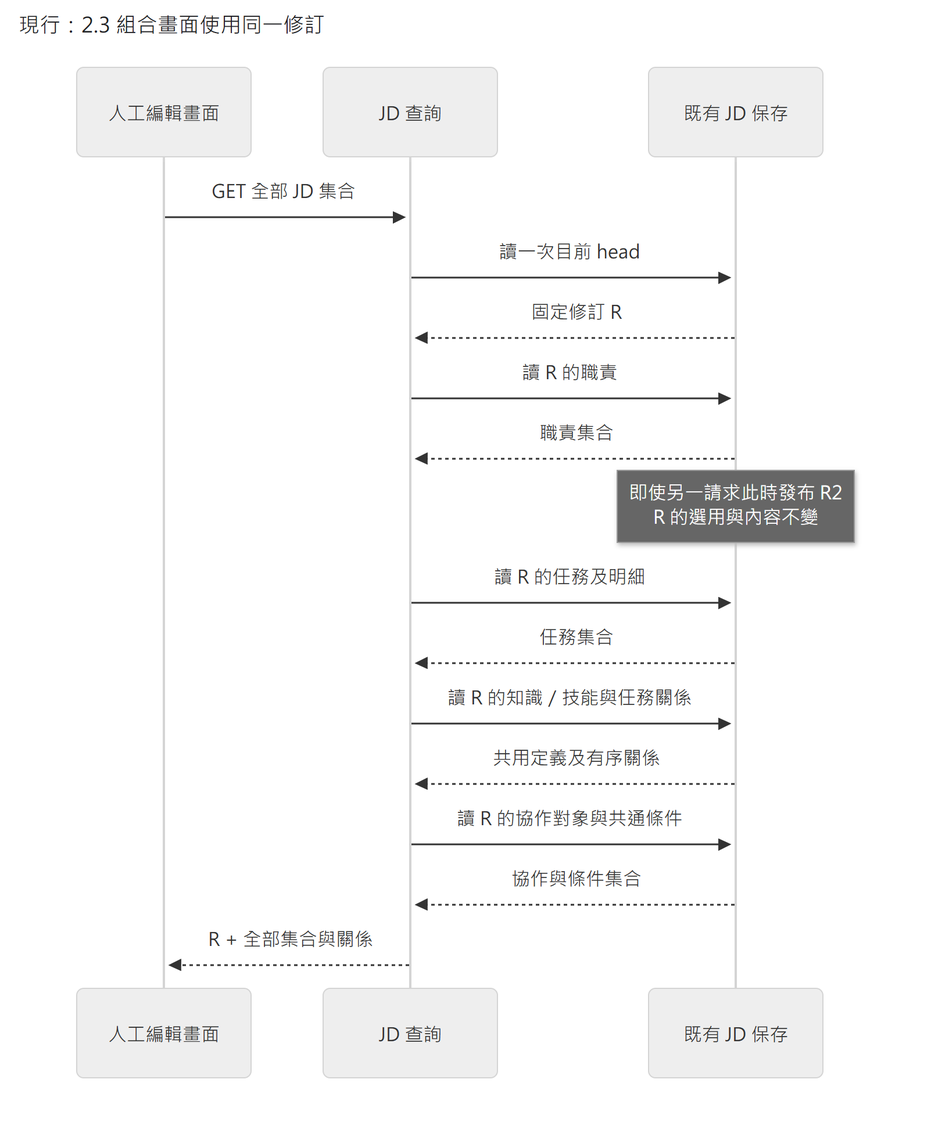
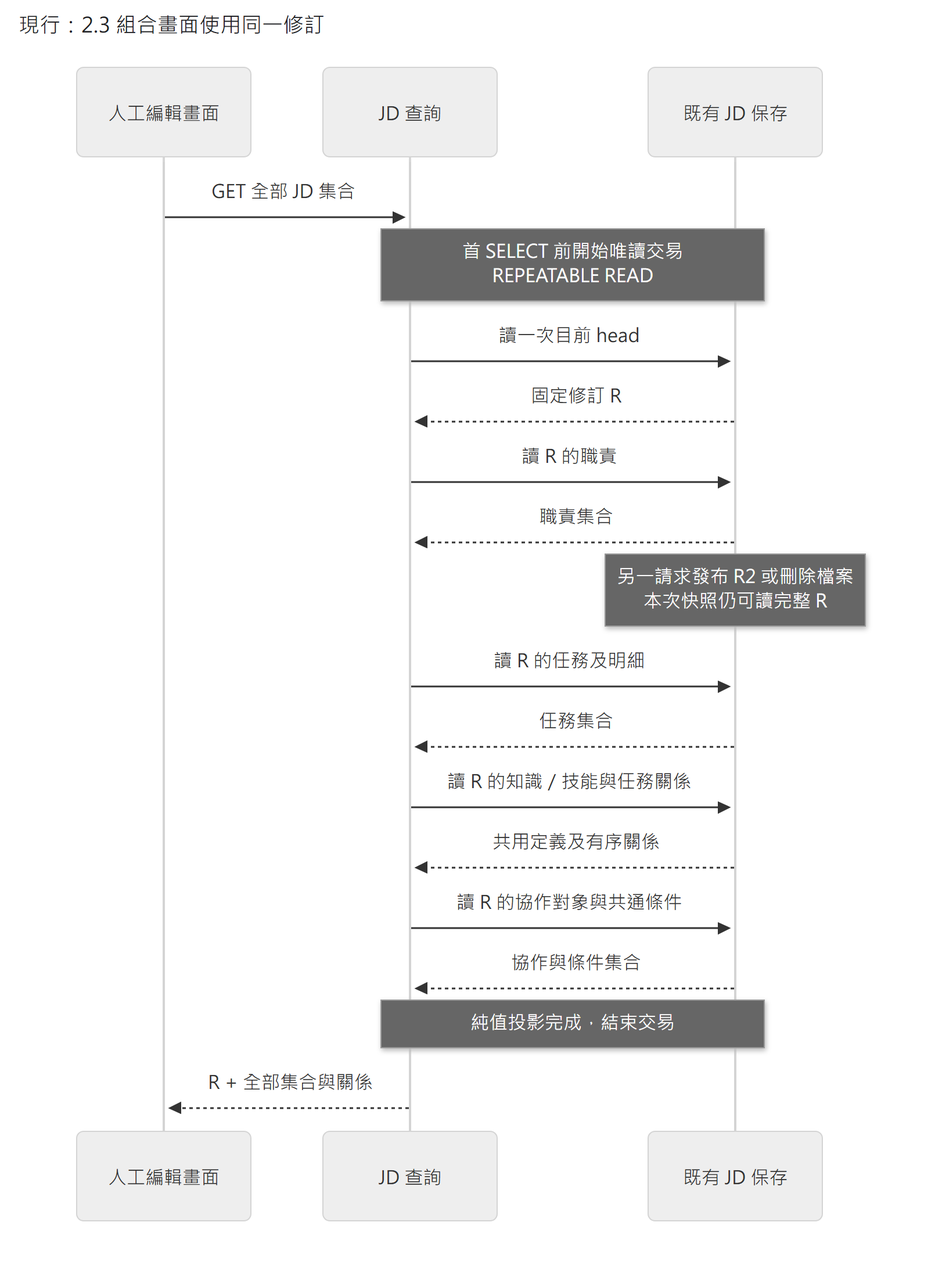
docs(engineering): record reviewed architecture and repair evidence
Record accepted ownership and contract decisions, official research, repair plans, independent reviews, validation limits, and the separately authorized local commits. Preserve unrelated project-report work in the working tree.

Validation: documentation checker 9 tests, 251 files, 4479 local references, zero issues. All 31 archived evidence hashes match; original bytes and the documented archived-probe EOF whitespace exception are preserved.

diff --git a/docs/implementation/web-workspace.md b/docs/implementation/web-workspace.md
@@ -17,9 +17,13 @@
 - 明確拒絕不自動改基底重送；保留畫面草稿供辨認，要求讀目前 JD 再決定。原命令成功確認後關編輯器，invalidate 並 GET 目前正式稿；舊操作回傳不直接寫入最新 cache。
 - 讀取失敗不當空白 JD；取消未送出的編輯只是放棄局部草稿，關閉結果未確認的編輯器也不是撤銷後端效果。未知欄位顯示「尚未提供」，不表示已確認沒有。人工寫入本身不等於員工事實或依據核對完成。
 
-profile 與 `WorkCommand` 共用 [usePendingCommand](../../apps/web/src/features/jd-editor/usePendingCommand.ts)處理重播、blocked、儲存失敗與還原；兩者各保留一筆待確認命令及自己的儲存鍵，互不覆蓋。共用 hook 僅管理 transport command。
+profile、`WorkCommand`、建立及改名共用 [pending-command store](../../apps/web/src/shared/commands/pending-command.ts)與 [useStoredCommand](../../apps/web/src/shared/commands/use-stored-command.ts)，集中保存、條件式 ACK、單次送出與已知／未知結果分類。各命令保留原儲存鍵及 schema；profile 與 work 仍各有自己的待確認 slot，互不覆蓋。
 
-[useProfileCommand](../../apps/web/src/features/jd-editor/useProfileCommand.ts)與 [useWorkCommand](../../apps/web/src/features/jd-editor/useWorkCommand.ts)是薄 adapter，各以一個 port 提供儲存鍵、型別檢查、POST、重讀及兩句提示，差異不另長成兩套恢復流程。
+[jd-commands](../../apps/web/src/features/jd-editor/jd-commands.ts)提供 JD 的 validator、完整命令比對、POST、正式拒絕分類及畫面結果投影。共用 hook 不持有草稿或 JD 版本規則；原命令已被替換、ACK 清理不可用或刷新失敗時，保留已知後端結果並顯示相應提示，不再送新命令。持久 ACK 與刷新在卸載後仍完成，只有仍掛載且結果可供目前畫面採用時才執行完成回呼。
+
+刷新由 [workspace-refresh](../../apps/web/src/app/workspace-refresh.ts)組裝：人工 JD 修改讀回 profile、work 及來源；訪談完成另讀回正式訪談；撤回另讀回原 Turn。各 feature 提供自己的 query options／範圍，JD 編輯器與訪談完成元件接收具名刷新 callback，不知道其他 feature 的 query key。來源使用自己的 `jd-sources` key，不依附 profile prefix。[refreshQueries](../../apps/web/src/shared/api/refresh-queries.ts)集中先 cancel、再 invalidate 並傳遞讀取錯誤，避免首次尚無 data 的慢 GET 被沿用為保存後結果；建立、改名、刪除清單、串流重連與終態 Plan 也沿同一機制。Plan 仍依原 execution 合併同時的終態讀取，並明確等待新資料，沒有另造 cache。
+
+JD 的正式拒絕只採已核對原命令後的 `409` 公開碼，以及相應集合的目標不存在／知識技能仍被引用錯誤。前置 schema／`invalid_*_change` 驗證、一般 `404`／`422`、未知碼或非 JSON 都不能否定先前可能已提交的操作，仍保留原命令。回傳成功與畫面刷新成功分開：來源或 JD GET 失敗不能讓已成功 POST 變成未知，也不能自動再送一次。
 
 採用 [React 的 state／key 生命週期](https://react.dev/learn/preserving-and-resetting-state)及 [TanStack Query 的 mutation invalidation](https://tanstack.com/query/latest/docs/framework/react/guides/invalidations-from-mutations)。以上原命令／基底保護是本案契約，不是 React／cache 自動提供交易原子性。沿用既有 HTTP 驗證，不新增全域表單 store 或雙寫保存服務。實測見 [T03 evidence §4](../history.md#source-75f1da860cdd0bef826e)；職責／任務見 [§2](#2-職責與任務的人工編輯)、知識／技能見 [§3](#3-共用知識技能及任務關係的人工編輯)、協作／條件見 [§4](#4-協作對象與共通條件的人工編輯)、候選與來源見 [§5](#5-工作畫面組裝) 及 [介面 §3](interface-and-delivery.md#3-顯示與來源)。
 
@@ -27,7 +31,7 @@ profile 與 `WorkCommand` 共用 [usePendingCommand](../../apps/web/src/features
 
 [JdWorkEditor](../../apps/web/src/features/jd-editor/JdWorkEditor.tsx)組裝職責、任務及未歸屬區。[WorkDialog](../../apps/web/src/features/jd-editor/WorkDialog.tsx)負責新增任務、知識／技能、協作對象與條件的表單（[TaskFields](../../apps/web/src/features/jd-editor/TaskFields.tsx)等），以及刪除確認；新增職責使用清單末端的 [AddArea](../../apps/web/src/features/jd-editor/AddArea.tsx)就地列。
 
-既有項目沒有整項編輯表單：文字[逐欄修改](#6-逐欄就地編輯)，搬移用「移到…」選單，成果／要求用「+」新增、× 移除。[useWorkCommand](../../apps/web/src/features/jd-editor/useWorkCommand.ts)管理本檔案、本分頁的一筆待確認集合命令，恢復規則共用 [§1](#1-基本資料編輯的讀取基底與恢復)。接線沿既有 MUI、Query 與 HTTP guard，不增設 form store 或拖曳框架。
+既有項目沒有整項編輯表單：文字[逐欄修改](#6-逐欄就地編輯)，搬移用「移到…」選單，成果／要求用「+」新增、× 移除。[workCommand](../../apps/web/src/features/jd-editor/jd-commands.ts)管理本檔案、本分頁的一筆待確認集合命令，恢復規則共用 [§1](#1-基本資料編輯的讀取基底與恢復)。接線沿既有 MUI、Query 與 HTTP guard，不增設 form store 或拖曳框架。
 
 - 畫面使用[同版組合讀取](jd-storage.md#23-組合畫面使用同一修訂)，開表單或就地編輯器時固定當時內容／基底。profile 與集合修改後互相 invalidate，因為兩者共用 JD 修訂；正在重讀時不讓新表單取已失效 cache。已開啟草稿仍不被背景更新覆蓋。
 - 職責／任務名稱和內容可局部清空，但至少保留一項有意義內容。成果／要求是獨立的明細，各自一筆命令：新增（清單標籤旁的「+」，在清單末端開空的就地編輯器）、改字（就地，保留身分）、移除（每項的 ×，先確認）。搬到別的職責是任務工具列 ⇄「移到其他職責」選單的單筆 `move_task`：選單列出所有職責與「未歸屬任務」（Primer ActionMenu 單選的做法，Things 的 Move、Jira 的 Move 同類），目前所在處打勾，選了就送、放在目的職責末尾，不附帶文字調整；選目前所在處只關選單。未歸屬明確列為「未歸屬任務」，不用空白選項冒充（`area_id` 是 null）。
@@ -40,7 +44,7 @@ profile 與 `WorkCommand` 共用 [usePendingCommand](../../apps/web/src/features
 
 ## 3. 共用知識／技能及任務關係的人工編輯
 
-[CapabilitiesSection](../../apps/web/src/features/jd-editor/CapabilitiesSection.tsx)呈現兩類共用定義、概覽排序及反向用途；[CapabilityFields](../../apps/web/src/features/jd-editor/CapabilityFields.tsx)只管新增表單的局部草稿；[TaskCapabilities](../../apps/web/src/features/jd-editor/TaskCapabilities.tsx)在每項任務管理連結、解除及關係排序。沿同一 `JdWorkEditor`、`WorkDialog` 及 `useWorkCommand`，不增加第二套命令暫存、對照表或保存服務。
+[CapabilitiesSection](../../apps/web/src/features/jd-editor/CapabilitiesSection.tsx)呈現兩類共用定義、概覽排序及反向用途；[CapabilityFields](../../apps/web/src/features/jd-editor/CapabilityFields.tsx)只管新增表單的局部草稿；[TaskCapabilities](../../apps/web/src/features/jd-editor/TaskCapabilities.tsx)在每項任務管理連結、解除及關係排序。沿同一 `JdWorkEditor`、`WorkDialog` 及 `workCommand`，不增加第二套命令暫存、對照表或保存服務。
 
 - 所有定義與關係來自同版 `/jd/work`。畫面可在任務顯示共用說明並連回定義；反向用途連回所屬任務。這是呈現，不把正文或反向列表另存一份。
 - 新增定義只填名稱、說明，至少一者有意義；修改在原處逐欄進行（[§6](#6-逐欄就地編輯)），只送變動欄位，空字串轉明確 null，沒改不送。知識／技能類別在建立時確定，不提供會改變所有用途含意的跨類切換。區塊說明列寫明「修改定義，所有使用它的任務都會顯示新版」。
@@ -63,6 +67,10 @@ profile 與 `WorkCommand` 共用 [usePendingCommand](../../apps/web/src/features
 
 ## 5. 工作畫面組裝
 
+JD 章節導覽及知識／技能的雙向任務連結共用 `jd-navigation`：原 reveal 事件冒泡展開目標的章節、職責／未歸屬及任務祖先，以 React `flushSync` 在瀏覽器捲動／聚焦前提交 DOM。僅在使用者導覽事件使用同步提交，保留 fragment URL 與修飾鍵開頁；收合仍只改呈現，草稿保持掛載。依據：[React flushSync](https://react.dev/reference/react-dom/flushSync)。
+
+工作區在 `max-width: 899.95px` 與既有 CSS 同步採 tab／tabpanel 關聯；非活動面板隱藏但不卸載。寬版改為兩個具名稱的 region，不讓隱藏的 tab 為區域命名。依據：[APG Tabs](https://www.w3.org/WAI/ARIA/apg/patterns/tabs/)、[MUI useMediaQuery](https://mui.com/material-ui/react-use-media-query/)。
+
 證據、設計依據與已驗／未驗範圍見 [T09 UI 改版證據](../history.md#source-072687957bc7ca22325b)。本節維護畫面行為；視覺數值由 [`theme.ts`](../../apps/web/src/app/theme.ts)與 [`styles.css`](../../apps/web/src/app/styles.css)維護。
 
 ### 版面、狀態與資料呈現
@@ -72,17 +80,17 @@ profile 與 `WorkCommand` 共用 [usePendingCommand](../../apps/web/src/features
 | 資料 | 持有位置 | 更新者 | 用途限制 |
 |---|---|---|---|
 | 服務端 Turn 狀態 | 後端業務保存 | 後端執行、控制及完成工作流 | HTTP 讀已保存狀態；SSE 呈現過程，不裁定正式完成 |
-| 工作發現提示（hint） | 按檔案隔離的 `localStorage` | `InterviewComposer` 經 turn API 寫入／清除 | 只帶命令與執行識別，不是執行狀態或訪談正文 |
+| 工作發現提示（hint） | 按檔案隔離的 `localStorage` | `useInterviewInput` 與 Composer 的恢復查詢經 turn API 寫入／清除 | 只帶命令與執行識別，不是執行狀態或訪談正文。檔案身分只有小寫 UUID 一種拼法：路由是唯一接受外來拼法（含大寫）的入口，正規化後才成為 query key、Web Lock、hint、暫存與刪除廣播的 scope（`shared/api/uuid.ts`） |
 | Turn 的查詢結果 | 本分頁 TanStack Query cache | `InterviewComposer` 查詢／輪詢；頁面只觀察 | 不用 Effect 複製進 component state；沒有資料不等於已確認閒置 |
 | JD 局部草稿與開啟基底 | 編輯器的 component state | 開啟時捕捉修訂，使用者修改草稿 | 背景 GET 不換草稿或基底；保存條件沿 [§1](#1-基本資料編輯的讀取基底與恢復) |
-| JD 待確認命令 | 本分頁、該檔案的 `sessionStorage` | `usePendingCommand` | 保留原命令供確認，不是正式 JD；重送條件沿 [§1](#1-基本資料編輯的讀取基底與恢復) |
+| JD 待確認命令 | 本分頁、該檔案的 `sessionStorage` | `useStoredCommand` | 保留原命令供確認，不是正式 JD；重送條件沿 [§1](#1-基本資料編輯的讀取基底與恢復) |
 
 [hint 訂閱](../../apps/web/src/features/interview/interview-turn-api.ts)使用 `useSyncExternalStore`，接收同分頁事件及跨分頁 `storage`；沒有 hint 時，由 `/current` 發現工作。處理區與頁面觀察同一識別；頁面以 `useCurrentTurn` 的停用 query 觀察者讀同一份 cache，供檔案列徽章與 JD 唯讀判定，不另發 GET／輪詢。啟動、恢復與輪詢只由 `InterviewComposer` 負責；回傳區分已核狀態與未知，HTTP／SSE 邊界見[介面 §2](interface-and-delivery.md#2-串流不是保存權威)。
 
 - **版面**：職務檔案頁為左訪談、右 JD 並排（`WorkspaceLayout`），各自捲動、整頁不捲動；窄螢幕（<900px）以分頁切換。切換只用 CSS，**兩區保持掛載** ，輪詢、SSE 與未送出草稿不因切換而丟失。訪談輸入與 Turn 控制固定在訪談欄底部；訊息記錄只在使用者接近底部時跟到最新，回看舊訊息不被打斷；離開底部時，輸入區上方浮出一顆「回到最新」圓鈕（AI Elements 的 scroll-to-bottom 做法），點了回到最新並恢復跟隨。[useStickToBottom](../../apps/web/src/shared/ui/use-stick-to-bottom.ts)只回報「是否離開」與「回去」兩件事，頁面把按鈕經 `aboveDock` 插槽交給輸入區，輸入區不認得捲動、按鈕不認得聊天。
 - **JD 唯讀鎖**：Turn 為 active 或 paused，或處理狀態尚未確認時，JD 顯示原因並停用人工編輯入口；已開啟的表單也保留草稿但禁止新修改，仍可核對既有待確認命令。正式內容仍可閱讀。已核終態或已確認沒有進行中工作才解除。這只改善體驗，寫入仍由後端拒絕（[介面 §1](interface-and-delivery.md#1-api-與-ui-的責任)），不把一次 GET 當長期寫入資格。
 - **候選與正式稿**：候選預覽在 JD 欄，用獨立「候選」樣式（「AI 層」）並註明尚未正式保存，可一鍵切到正式稿；兩個檢視都保持掛載，切換不重新載入正式稿。PDF 入口在 JD 欄，仍只匯出正式版本。取消後候選消失、回到正式稿。
-- **來源**：來源回查是 JD 欄右側滑出面板（列表與單筆來源切換）；JD 各項目旁的「來源 n 筆／待核對」徽章只用 `Reference.target` 身分連結（見 [JD 保存 §3.7](jd-storage.md#37-人的正式來源回查)），沒有 `target` 就不顯示徽章，絕不按標籤猜。徽章點擊只把面板篩到該項目的引用；查看不解除待核對。
+- **來源**：來源回查是 JD 欄右側滑出面板（列表與單筆來源切換）；JD 各項目旁的「來源 n 筆／待核對」徽章只用 `Reference.target` 身分連結（見 [JD 保存 §3.7](jd-storage.md#37-人的正式來源回查)），沒有 `target` 就不顯示徽章，絕不按標籤猜。徽章點擊只把面板篩到該項目的引用；查看不解除待核對。App 組裝實際開啟控制與面板，關閉時回到仍有效的來源徽章或 disclosure，控制失效則回到固定 disclosure；DOM 焦點狀態不進正式資料或 query cache。面板維持非 modal，不新增焦點陷阱。
 
 ### 長 JD 導覽與操作
 

diff --git a/docs/implementation/jd-storage.md b/docs/implementation/jd-storage.md
@@ -21,11 +21,11 @@
 
 | 責任 | 已實作位置 |
 |---|---|
-| 純值、明確局部修改與不變量 | [models.py](../../apps/api/src/caliburn/features/job_description/models.py)；不依賴 ORM／HTTP |
+| 純值、明確局部修改與不變量 | [models.py](../../apps/api/src/caliburn/features/job_description/models.py)、[work_models.py](../../apps/api/src/caliburn/features/job_description/work_models.py)及各內容的 changes；不直接或間接依賴 ORM／HTTP／query service |
 | 原結果核對、修訂與欄位用例 | [service.py](../../apps/api/src/caliburn/features/job_description/service.py)；參與呼叫方交易，不 commit |
 | 正式頭、固定修訂、原操作 SQL | [persistence.py](../../apps/api/src/caliburn/features/job_description/persistence.py) |
 | 固定正式內容查詢 | [queries.py](../../apps/api/src/caliburn/features/job_description/queries.py)；GET 不偷偷建立資料 |
-| 共用修改範圍與原結果 | [revision_editing.py](../../apps/api/src/caliburn/features/job_description/revision_editing.py)；六種編輯共用欄位規則與固定修訂，只選擇正式或候選指標 |
+| 共用修改範圍與原結果 | [revision_editing.py](../../apps/api/src/caliburn/features/job_description/revision_editing.py)；集中檔案／候選 scope 與完整 `kind + expected_revision_id + request_payload` 意圖核對，各資料用例保留 payload 及原結果投影；選擇正式或候選指標，不混合發布責任 |
 | 候選位置、回退及採用參與者 | [candidates.py](../../apps/api/src/caliburn/features/job_description/candidates.py)、[candidate_service.py](../../apps/api/src/caliburn/features/job_description/candidate_service.py)、[candidate_persistence.py](../../apps/api/src/caliburn/features/job_description/candidate_persistence.py)；服務不自行 commit |
 
 **JD 內容集合**
@@ -45,9 +45,9 @@
 | 責任 | 已實作位置 |
 |---|---|
 | 同版 JD 集合組合讀取 | [work_queries.py](../../apps/api/src/caliburn/features/job_description/work_queries.py)、[jd_work.py](../../apps/api/src/caliburn/transport/http/jd_work.py)；職責／任務／能力及關係／協作／條件先固定 head 一次，再沿既有查詢投影，不另建資料保存模組 |
-| 檔案隔離、人工准入及一次提交 | [jd_editing.py](../../apps/api/src/caliburn/workflows/jd_editing.py)；沿既有檔案鎖與 executions，不重建鎖定系統 |
-| HTTP 驗證／錯誤投影 | [jd_profile.py](../../apps/api/src/caliburn/transport/http/jd_profile.py)；無業務 SQL |
-| 職責 HTTP 與共用 workflow 注入 | [jd_areas.py](../../apps/api/src/caliburn/transport/http/jd_areas.py)、[jd_dependencies.py](../../apps/api/src/caliburn/transport/http/jd_dependencies.py)；與 profile 共用准入／交易責任 |
+| 檔案隔離、人工准入及一次提交 | [jd_editing.py](../../apps/api/src/caliburn/workflows/jd_editing.py)；六個 typed 寫入入口共用單一手動交易協調：鎖檔案、查原結果、再核新寫入准入、修改；各次呼叫獨立 session／交易，沿既有 executions，不重建鎖定系統 |
+| HTTP 驗證／錯誤投影 | [jd_profile.py](../../apps/api/src/caliburn/transport/http/jd_profile.py)與各資源路由維護內容及不存在錯誤；無業務 SQL |
+| 人工 JD 的共同錯誤與 workflow 注入 | [jd_dependencies.py](../../apps/api/src/caliburn/transport/http/jd_dependencies.py)以 FastAPI function-scope yield dependency 統一原命令衝突、過期修訂及顧問忙碌的回應；undo／delete 保留各自錯誤代碼，不使用全域映射 |
 | 新建檔案連同空 JD／開場保存 | [job_files.py](../../apps/api/src/caliburn/workflows/job_files.py)；重送建立不重設 JD |
 | A 候選准入／短交易 | [jd_candidates.py](../../apps/api/src/caliburn/workflows/jd_candidates.py)；沿既有 execution writer 與檔案鎖，不提供獨立正式完成 HTTP |
 
@@ -106,7 +106,9 @@ UUID 是身分，不表示時間大小；先後由父修訂與原操作表達。
 
 ### 2.3 組合畫面使用同一修訂
 
-`GET /jd/work` 給人工編輯畫面一組固定 `revision_id`、`areas`、`tasks`、`capabilities`、`task_links`、`collaborators`、`conditions`。不能由前端分別讀取各集合的 latest 再拼接，否則另一請求可能在兩次讀取之間改歸屬、刪職責、改共用定義／關係或更正條件分類。組合讀取只捕捉 head 一次，之後都讀不可變修訂；不需要為此另存投影表、鎖住人工編輯或提高整個 App 的 isolation level。profile 仍為獨立表單及讀取，不宣稱跨 HTTP 請求同版。
+`GET /jd/work` 給人工編輯畫面一組固定 `revision_id`、`areas`、`tasks`、`capabilities`、`task_links`、`collaborators`、`conditions`。不能由前端分別讀取各集合的 latest 再拼接，否則另一請求可能在兩次讀取之間改歸屬、刪職責、改共用定義／關係或更正條件分類。純聚合用例在首 SELECT 前進入短 `REPEATABLE READ`／`READ ONLY`，只捕捉 head 一次，之後都讀該快照中的固定修訂；即使其間整檔刪除，也返回完整舊快照或一開始就不存在，不回成功的半份內容。profile 仍為獨立表單及讀取，不宣稱跨 HTTP 請求同版。
+
+一致唯讀 session 由 [database adapter](../../apps/api/src/caliburn/adapters/database.py)提供，workflow 擁有其範圍；人工各區、模型純讀、來源／差異、候選預覽與匯出依同一聚合責任使用。寫入保持原 root lock／writer fencing，不提高全 App 隔離級別。投影成純值即釋放交易，短 ID 配置、正文計算及 PDF render 在交易外；owner query 不自行 commit 或另開 session。
 
 ![現行：2.3 組合畫面使用同一修訂](../diagrams/implementation/jd-storage/revision-consistent-read.png)
 
@@ -213,7 +215,7 @@ map 與完整 `read_jd` 使用 App 配發的短定位。模型導覽的欄位仍
 
 - **保存與生命週期：** migration `0023_jd_model_references` 增加 JD 專用映射，不保存第二份 JD／引用正文。資料庫產生全域遞增序號，`(job_file_id, canonical_ref)` 唯一；只在可信讀取／建立結果首次向模型提供時發配。相同身分跨讀取、Step、Turn、重啟保持同值，不按目前列表位置重排。刪除、取消或回滾不刪映射、不重用號碼；舊定位仍指舊身分，由可見修訂拒絕已不存活的目標。
 - **並行與恢復：** 沿 PostgreSQL Identity、唯一約束與 `ON CONFLICT DO NOTHING` 處理競爭，不另造計數器或鎖管理器。既有映射重讀不寫入；新增映射使用獨立短交易，不跨模型呼叫持鎖。JD 建立已提交但映射保存失敗時，錯誤交既有 Runtime；重入先承接原業務操作結果，再取得同一映射，不建立第二個物件。映射必須提交後才交給模型。
-- **相容與隔離：** 原生歷史中的舊型別＋UUID 定位仍可沿原 resolver 使用，不重寫歷史；新輸出統一短定位。跨檔案、錯類型、未知短定位均拒絕。JSON 只轉換明定定位欄位，Markdown diff 只格式化程式產生的定位，不對正文做全域字串替換。來源核對語意、Memory `target_title`、HTTP／UI UUID 不變。
+- **定位與隔離：** 模型工具入口只接受本檔案已配置的短定位，拒絕 canonical UUID passthrough；內部 prepared command 仍保存 canonical 身分並沿原 resolver 恢復。跨檔案、錯類型、未知短定位均拒絕。JSON 只轉換明定定位欄位，Markdown diff 只格式化程式產生的定位，不對正文做全域字串替換。來源核對語意、Memory `target_title`、HTTP／UI UUID 不變。
 
 驗證：[短定位](../history.md#source-098e24f247a9411844be)。程式與 migration 已有離線／真 PG 證據；示範服務是否已升級需依[目前決策](../current-decisions.md)核對。短定位不等於 Luna 的來源選擇或核對品質已改善。
 
@@ -228,7 +230,7 @@ map 與完整 `read_jd` 使用 App 配發的短定位。模型導覽的欄位仍
 - 新 JD 修訂沿 [source inheritance](../../apps/api/src/caliburn/features/job_description/source_inheritance.py)保留仍存在目標的原引用；刪目標只從新修訂移除其引用，歷史不變。排序／移動不等於文字改寫。共用能力正文變化會使其任務使用關係的內容基底不再相符。
 - [read_jd](../../apps/api/src/caliburn/transport/model_tools/jd_reads.py)沿固定候選位置完成十一種 view：map 精簡 JSON、full 成品 Markdown、局部／區域完整 JSON。正式／候選不混版，來源改名列歷史名稱，移除不改指同名新物件；只在必要時回 `needs_recheck`。大結果明確拒絕，不偷偷截斷。
 - [profile write](../../apps/api/src/caliburn/workflows/jd_profile_writes.py)與 [task write](../../apps/api/src/caliburn/workflows/jd_task_writes.py)先解析固定意圖及來源，再交 JD 的 [compound service](../../apps/api/src/caliburn/features/job_description/compound_service.py)共同計算內容、關係與直接來源。一次操作至多建立一份最終修訂及一筆 `compound_edit` 原結果；未變內容重用固定修訂，不再為每個來源或明細中間步驟複製整份選用。後段失敗整體回滾；`created`／`updated` 只是候選效果。
-- 複合操作的重入先核對同一命令、完整意圖與候選範圍，再回原 `revision_id`、效果與新項目，不把目前候選倒退。升級前已保存的 prepared command 維持原 wire；[legacy 讀取](../../apps/api/src/caliburn/features/job_description/compound_legacy.py)依舊生成規則有界核對完整衍生操作集合、順序及終點，不能只核對此次傳入的前綴。省略來源／關係尾段（含 no-op）、改換首操作或缺少必要舊結果均明示拒絕；合法原命令仍回原結果及原核對基底。新操作不再寫舊子操作，沒有雙寫或新回執表。
+- 複合操作的重入先核對同一命令、完整意圖與候選範圍，再回原 `revision_id`、效果與新項目，不把目前候選倒退。現行只讀寫 typed compound 操作；旧子操作集合的相容讀取與推導分支已退役。當前新工作的 prepare／commit／output 中斷仍須承接原結果及原核對基底，不重新套用變更。
 - Graph 保存 prepared command 使用 [JSON checkpoint adapter](../../apps/api/src/caliburn/transport/model_tools/jd_write_checkpoint.py)：Pydantic TypeAdapter 序列化／嚴格還原具型別意圖，官方 saver 只保存 JSON 值，不靠允許任意 Python constructor／pickle 恢復工具命令。完整 tool request 與配對仍由共用執行機制管理。
 
 來源與修訂的最小關係如下；完整欄位仍以 migration 為準，不手抄第二份 schema：
@@ -246,6 +248,8 @@ map 與完整 `read_jd` 使用 App 配發的短定位。模型導覽的欄位仍
 `create_jd_item` 由 [建立 workflow](../../apps/api/src/caliburn/workflows/jd_item_creation.py) 接回JD 領域模組的職責／能力／協作／條件用例；`revise_jd_item` 由 [修訂 workflow](../../apps/api/src/caliburn/workflows/jd_item_revision.py) 協調同項目文字、直屬明細、能力關係與直接依據；`delete_jd_item` 由 [刪除 workflow](../../apps/api/src/caliburn/workflows/jd_item_deletion.py) 沿既有刪除規則處理。不另存模型版 JD，也不把正式人工端點借給 A。
 
 各入口先將模型選擇解析為含原操作身分、候選位置與固定來源的 prepared value；Graph 保存型別化 JSON 後才執行。profile、任務、一般項目建立／修訂由 [compound edits](../../apps/api/src/caliburn/features/job_description/compound_edits.py)的四類意圖及 `JdCompoundEditResult` 表達；JD owner 重用既有純編輯與來源規則，一次保存最終結果。workflow 負責跨域來源解析、檔案／writer 准入及外層交易，內層不 commit；新項目身分直接由領域結果提供，不由 workflow 比較前後集合猜測。刪除等既有單一操作仍沿其具體用例。
+
+workflow 的結果保留型別：刪除回原結果修訂與解除歸屬的任務數，移動回原結果修訂、效果及是否解除歸屬。prepared value 保存恢復所需 facts，不保存供程式解析的中文回覆。[工具 renderer](../../apps/api/src/caliburn/transport/model_tools/jd_write_rendering.py)唯一負責短 ID 配置與模型文字，文案變動不改變去重／恢復規則；配置短 ID 失敗後可沿已提交原結果重新呈現。
 
 重入用原 operation 的結果，不用目前最新稿替代原結果。成功只回精簡狀態／新定位，模型已有的全文不重複回送。可修正的語意參數錯誤回工具拒絕；DB／提交結果不明及失效 writer 不吞成一般參數錯誤。`0028` 的資料與回復相容驗證見[本輪重構證據](../plans/evidence/full-system-review-2026-10-08.md)。
 

diff --git a/docs/operations/README.md b/docs/operations/README.md
@@ -163,9 +163,11 @@ DataGrip 展開 `caliburn → views`，可直接雙擊下列 VIEW，再用 `job_
 |---|---|---|
 | `diagnostic_execution_history` | 一輪 A 或一批 Memory（包含失敗／取消） | 檔案名稱、原輸入、正式答覆、正式序號、狀態、失敗嘗試、JD 候選、`captured_initial_context`、目前 Memory head 及本批發布的快照 |
 | `diagnostic_model_steps` | 一份已保存的邏輯請求；可能尚無回應，不等於已外送或業務 Step 已完成 | role、request_id、response_state、response_order、request（instructions、input、tools）、response（輸出與 usage）、原請求及回應的 checkpoint／source、snapshot_at |
-| `diagnostic_tool_calls` | 上述回應的一次 function call | 工具名稱、原 arguments、call_id、對應 output、結果是否已保存 |
+| `diagnostic_tool_calls` | 上述回應的一次 function call | 工具名稱、原 arguments、call_id、可空的 operation_id、對應 output、結果是否已保存 |
 
 例如整個檔案的操作：
+
+`0029_diagnostic_tool_operations` 增加操作識別；需先沿既有更新流程套用 forward migration，再 refresh 診斷副本。投影只安全讀取原 response 的 UUID／null `operation_seed`，以既有 `uuid5(seed, call_id)` 規則計算，沒有 seed 的舊副本為 null，不按相同正文猜命令。`result_state=not_recorded` 只表示工具輸出未保存，仍可用 operation ID 查已提交的業務結果。複合 JD 命令以根 command ID 對應 `jd_operations.result_payload`；舊衍生操作依其既有修訂因果查閱。此 view 及 JSON metadata 是可重建診斷副本，不參與正式恢復或重送。
 
 ```sql
 SELECT * FROM caliburn.diagnostic_execution_history
@@ -217,6 +219,8 @@ ORDER BY o.created_at, o.command_id;
 先用 `event`、`module`、`failure_kind` 判斷負責環節，再以 `job_file_id`、`execution_id`、`request_id`、`attempt_id` 查原業務／診斷紀錄。HTTP 回應的 `X-Request-ID` 對應 `http_request_id`，由伺服器產生；不採信傳入值，也不把它當業務命令身分。`execution.runner_returned` 只表示 runner 返回，正式完成仍查業務結果。
 
 `supervisor.monitor_failed` 表示背景監督迴圈中止，`supervisor.release_failed` 表示收尾釋放失敗；用 `execution_kind`、`operation`、`failure_kind` 定位。這些事件可能發生在尚未選定工作時，因此不捏造 execution ID，也不輸出原始例外正文。正常取消不記成監督失敗。
+
+`memory.evidence_invalid` 表示某份檔案的 Memory 准入證據損毀；以 `job_file_id`、`execution_id`、`command_id` 及固定 `failure_kind` 查回原操作。execution 識別屬於該筆證據，不一律是 Memory batch，所以此事件不推測 `execution_kind`。該檔案暫不准入 Memory，其他檔案照常處理；相同證據持續異常不每秒重複記錄。重啟不會修好損毀資料。先依原件與正式關聯定位，再按資料操作授權處理；監督本身不改寫原件。證據修復後，既有唯讀探索與 claim 會重新核對，不能把這個恢復誤認為未知模型請求可以重送。完整邊界見[Memory 背景工作](../implementation/agent-supervision.md#5-memory-背景工作)。
 
 輸出使用容量 1024 的非阻塞佇列，滿時捨棄新紀錄；後續可用事件會附累計 `logging_dropped_records`／`logging_output_failures`，不能把沒看到 Log 當作沒發生。正常關閉最多等待 1 秒排出；程序意外終止可能遺失尾端 Log，可靠結果沿 PostgreSQL／checkpoint 核對。原生終端不自動保存檔案；Docker 沿 Compose 的 local driver 輪替，每檔 10 MB、最多 3 檔。格式規範見[工程文件](../standards/coding-standard.md#72-log-的格式責任與查閱)，本輪驗證見[重構證據](../plans/evidence/full-system-review-2026-10-08.md)。
 

diff --git a/docs/implementation/memory-body-editing.md b/docs/implementation/memory-body-editing.md
@@ -1,6 +1,6 @@
 # Memory 正文編輯接線
 
-- 狀態：**現行 Memory 正文編輯機制**。2026-10-07 依 [ADR0081](../adr/0081-consultant-interview-focus-and-unresolved-plan.md)將純核心移至 `adapters/body_edits.py`／`body_matching.py`，Memory 原入口保留薄相容包裝；焦點筆記重用同一解析／唯一定位／套用機制，只有 App 筆記用途允許空正文，Memory 仍拒空。純運算、模型工具與候選交易分責；共用執行與角色接線見 [Agent 執行](agent-execution.md)。驗證見[本次切片證據](../plans/evidence/interview-plan-2026-10-07/t1-tools.md)及[正文與工具驗證](../history.md#source-99a88a33a07b25e8aa86)。
+- 狀態：**現行 Memory 正文編輯機制**。2026-10-07 依 [ADR0081](../adr/0081-consultant-interview-focus-and-unresolved-plan.md)將純核心移至 `adapters/body_edits.py`／`body_matching.py`，Plan 重用同一解析／唯一定位／套用機制。2026-10-09 移除 Memory 的純 matcher 轉送入口，caller 直接使用共同核心；`work_memory/body_edits.py` 保留 Memory 非空正文政策，App 筆記用途則允許空正文。純運算、模型工具與候選交易分責；共用執行與角色接線見 [Agent 執行](agent-execution.md)。驗證見[原切片證據](../plans/evidence/interview-plan-2026-10-07/t1-tools.md)、[責任重構](../plans/evidence/system-quality-domain-2026-10-09.md)及[正文與工具驗證](../history.md#source-99a88a33a07b25e8aa86)。
 - 產品契約：[單物件更新](../specs/2026-09-27-memory-object-update-tool-contract.md)、[共同工具規範](../specs/2026-09-27-agent-tool-contract-design-research.md)。本頁只決定既有 V4A 能力的解析、定位與套用機制，不重定產品效果或資料保存責任。
 
 閱讀路徑：[採用來源](#1-重用來源與有限補強) → [語法與定位](#2-語法與唯一定位) → [套用與容量](#3-套用錯誤與容量) → [接縫驗證](#4-接縫及驗證層級)。純編輯核心處理一份正文；角色權限、工具回傳與候選交易由各自的接線文件維護。
@@ -25,11 +25,13 @@ App 已綁定的一份候選正文 + body diff
 
 前四步是純運算；無 DB、filesystem、網路、scope 推測或自行重試。最後的候選採用及原結果恢復沿 [Memory 保存](memory-storage.md)，不是編輯器再造一套收據。
 
+Memory 的 patch 準備及 preview diff 由 `MemoryWritePreparation` 在關閉讀取 session 後，借用 App 的有界 `MemoryCpu`；純 matcher 不管理 thread、容量或資源。取消與關閉依 [Memory 保存](memory-storage.md#3-交易與讀取邊界)，不把 `to_thread` 呼叫返回視為同步工作已停止。
+
 ## 2. 語法與唯一定位
 
 `adapters/v4a_parser.py` 抽取舊側 context 與相對 edit chunks，返回不可變型別。允許 `@@`、原文 anchor／stacked anchors、多 hunk、可選終端 `*** End Patch`／`*** End of File`；第一段亦可直接以增刪／context 開始。以換行分隔完整來源行，不接受數字 unified header、Markdown fence、檔案路徑或 create/delete/move envelope。所有輸入必須被消耗，不能修改前段後忽略非法後段。
 
-`adapters/body_matching.py` 的唯一規則（Memory 原路徑轉出同一型別）：
+`adapters/body_matching.py` 的共同唯一定位規則：
 
 - 在完整原文、目前順序游標以後枚舉同列數的整行窗口；context 包含未改行與刪除行，新增行不參與定位。
 - 比對視圖只去每行首尾空白。相同文字合格；非相同的行，雙方至少 10 字元且 Levenshtein normalized similarity ≥0.90 才合格。**每行** 都須合格，不讓大量相同背景掩蓋短標題／短事實不符。

diff --git a/docs/implementation/data-and-contracts.md b/docs/implementation/data-and-contracts.md
@@ -67,13 +67,18 @@ JD 以 profile、職責、任務、成果、要求、知識、技能及關係建
 |---|---|
 | Python DTO | `apps/api/src/caliburn/contracts/generated/`；工具型別位於其 `tools/` 子目錄 |
 | TypeScript 型別 | `apps/web/src/shared/api/generated/`；工具型別位於其 `tools/` 子目錄 |
-| 工具 schema 資源 | `apps/api/src/caliburn/contracts/generated/tools/*.schema.json`；供安裝後的工具定義讀取 |
+| Canonical schema 資源 | `apps/api/src/caliburn/contracts/generated/{http,tools}/*.schema.json`；保留原相對參照，供安裝後的 runtime guard 與工具定義讀取 |
+| DTO／資源索引 | `apps/api/src/caliburn/contracts/generated/schema-manifest.json`；生成的 root DTO 全名對應 canonical 資源路徑 |
 
 Web 使用同一份 HTTP schema 驗證回傳，再放入查詢快取，不手寫第二份資料 shape。
 
+依 [ADR0084](../adr/0084-canonical-wire-admission.md)，HTTP request body 經 FastAPI 的 `Annotated[DTO, canonical_body(DTO)]` 接縫；Tool JSON 經 `contracts.validation.parse_contract(DTO, arguments)`。兩者由 `Draft202012Validator` 與 `FormatChecker` 對 canonical 原始值先驗證，通過後才呼叫 `model_validate(..., strict=False)`。因此 `StrictInt` 生成欄位可轉換 schema 合法的 `1.0`，布林、字串與額外欄位仍由 schema 拒絕；不手改 DTO 或逐欄新增 validator。HTTP 的型別／OpenAPI 仍沿原 DTO，領域規則與角色 scope 仍留在原責任模組。
+
+runtime guard 由 `importlib.resources` 讀取包資源，官方 `referencing.Registry` 只登錄包內 schema，未配置任何外部 retriever。`jsonschema[format-nongpl]` 是鎖版正式相依；所有 canonical format 都必須有已安裝 checker，缺少時失敗，不靜默略過。驗證錯誤只保留安全種類與 schema 路徑，不轉送 validator 的輸入正文、message 或 cause；Tool 繼續回原本的可行修正指引。schema 已接受、DTO 卻無法表示時屬內部契約錯誤，以安全 `RuntimeError` 中止，不能冒充使用者參數錯誤。Python 用 `FormatChecker.checks`、Web 在唯一 `shared/api/schema-policy.ts` factory 用 Ajv `addFormat` 接上標準 UUID 表示檢查，排除套件額外容許的 URN 或多餘連字號。各 feature 仍擁有其 schema 與編譯後 guard，不各自重建接受政策，也不讓 shared 反向依賴 feature。
+
 模型 schema 與 HTTP 不強求相同：HTTP 需要保存／預覽狀態，tool 只回推理下一步所需資訊。模型 strict wire 是薄編譯邊界：有限 variants、required／additionalProperties 按 provider 子集，語意上未列 change 仍是保留，不把 null 當清空。生成後以真 SDK payload 驗，而非只測 Python class 建得出來。
 
-生成器亦將 tools 原 schema 複製為安裝包內唯讀資源，`--check` 驗 byte 一致；provider definitions 使用這份生成副本，不從 DTO 再生另一個 shape。離線 SDK payload 不等於遠端 strict 接受；實測範圍依 [Memory 工具接線](memory-tools.md)。
+生成器亦將 HTTP／tools 原 schema 與索引寫為安裝包內唯讀資源，`--check` 驗 byte 一致；provider definitions 使用 tools 的同一份生成副本，不從 DTO 再生另一個 shape。離線 SDK payload 不等於遠端 strict 接受；實測範圍依 [Memory 工具接線](memory-tools.md)。
 
 原始 Responses items 不塞進自製 message schema；按官方 SDK output→input 轉換後保留必要 metadata、opaque bytes 與順序，兩種方向各有 round-trip 測例。生成檔不手改；CI 再生成比 diff。實際 wire 以 schema、生成物與對應驗證為準。
 

diff --git a/docs/operations/rag.md b/docs/operations/rag.md
@@ -2,6 +2,8 @@
 
 本頁供已啟動基本 App、需要增加公版查找的操作者使用。基本訪談、人工 JD 與 PDF 不依賴 RAG；本頁另列[獨立 RAG 開發](#獨立-rag-開發)入口。
 
+查詢 API 的四條模型檢索路由在派工前共用單一准入，最多等五秒；逾時或關閉中回 503，health 及純讀取仍沿獨立路徑。這是准入期限，不是模型執行或關閉的硬期限。取消已派工請求會等實體 worker 結束再關共用 clients，沒有放大全域 thread pool。
+
 ## 含公版參考的 Docker 模式
 
 需要顧問查找公版時，在基本配置上加上 `compose.jd-app.rag.yaml`。兩種模式共用 `caliburn-jd-app` project、App 與 PostgreSQL，不另外開第二套產品。公版模式多了查詢 API `ocs-indexer`、Qdrant 與 GPU 模型服務 `embedder`；它們啟動後持續運行，顧問需要資料時才查詢，不必等到第一次提問才啟動容器。
@@ -57,6 +59,8 @@ docker compose -f compose.jd-app.yaml -f compose.jd-app.rag.yaml --profile rag e
 
 App 經 `http://ocs-indexer:8000` 查詢；RAG 三個服務不發布主機連接埠，也不接收 OpenAI key。App 的啟動相依仍只有 PostgreSQL；RAG 故障不終止基本訪談／人工 JD 功能，相關工具會回報錯誤。
 
+Indexer 自建的 embedding、rerank 與 Qdrant HTTP client 使用明示目的地，不採用 shell 的 `HTTP_PROXY`／`HTTPS_PROXY`／`ALL_PROXY` 或環境憑證設定（HTTPX `trust_env=False`）。明示 URL、反向代理路徑與 Qdrant API key 仍由既有配置傳入；注入的外部 client 則由 caller 負責其路由與生命週期。Qdrant client 1.18.0 的選用背景版本探針另建 HTTP client，未沿用上述設定，因此關閉該探針；部署更新仍須核對 lock 中的 client 與 Compose server 版本並執行實際搜尋，不以背景警告替代相容性驗收。依據：[HTTPX 環境設定](https://www.python-httpx.org/environment_variables/)、[Qdrant 版本探針原碼](https://github.com/qdrant/qdrant-client/blob/v1.18.0/qdrant_client/common/version_check.py)。
+
 由完整模式改回基本模式時，先依上表停止完整模式，再依[基本模式](README.md#日常啟停與更新)啟動。Compose 會依基本配置重建同一個 App，保留原資料。若 App 的外部 key 檔另有 `CALIBURN_OCCUPATION_REFERENCE_URL`，還須移除該設定才能關閉工具。反向切換時也先在安全點停下原 App，再使用完整模式，不同時運行兩個 App。
 
 ### 更新與保存
@@ -70,6 +74,8 @@ App 經 `http://ocs-indexer:8000` 查詢；RAG 三個服務不發布主機連接
 設定解析、鎖定安裝與 API 回歸結果見 [公版 Docker 驗證](../experiments/engineering/2026-10-06-docker-rag-startup.md)。真容器與 GPU 的已驗／未驗範圍在該頁分開記錄。
 
 ## 獨立 RAG 開發
+
+獨立 `docker-compose.yml` 只含 Qdrant 與模型服務 `embedder`：Qdrant `6333`（REST）／`6334`（gRPC），以及 `embedder` `8082`（`/embed`、`/rerank`、`/health`，不是查詢 API），明確只發布至 `127.0.0.1`，供本機開發存取。公版查詢 API 由 `pnpm rag:dev` 在本機 `127.0.0.1:8000` 啟動；正式 App overlay 的 `ocs-indexer`、Qdrant 與 `embedder` 都只使用 Compose 內部網路，App 經 `http://ocs-indexer:8000` 查詢。設定驗收檢查兩種模式解析後的 ports，不啟動 GPU 或重建索引。依據：[Docker port publishing](https://docs.docker.com/engine/network/port-publishing/)。
 
 `apps/pdf-to-json`、`apps/ocs-indexer`、`apps/embedder` 及共用契約套件不在 JD App 的套件依賴內。獨立開發時依用途執行：
 

diff --git a/docs/standards/contract-strategy.md b/docs/standards/contract-strategy.md
@@ -8,9 +8,15 @@
 
 API 的領域與用例模組不直接依賴 transport DTO；傳輸層負責 DTO 與內部型別的轉換。Python 內部 port 使用明確型別或 Protocol，不因共用而另建泛用契約套件。模型原生 Responses items 沿 SDK 接續契約保存，不套入 App 自製的訊息 schema；App schema 的額外欄位限制不應套用到原生接續 metadata。
 
+依 [ADR0084](../adr/0084-canonical-wire-admission.md)，JSON Schema 同時決定 wire 輸入的接受政策。HTTP 與模型工具先以 canonical schema 驗證原 JSON，再以生成 DTO 轉成 Python 型別；DTO 的預設 strict／coercion 行為不另訂輸入規格。JSON 數學整數包含 `1.0`，不包含布林或字串；`uuid` 採 JSON Schema 2020-12 §7.3.5 的連字號形式，容許十六進位大小寫，不接受 compact 或 URN 拼法。Web 的 Ajv 使用同一份 schema 與相同 UUID 格式政策。[JSON Schema](https://json-schema.org/draft/2020-12/json-schema-validation)
+
+現有 wire 整數都是序號、索引或計數，canonical 統一將上限明訂為 `9007199254740991`，既有較小上限仍保留。這是本案跨 Python／JavaScript 精確表示的契約政策，沿 [RFC 8259 §6](https://www.rfc-editor.org/rfc/rfc8259#section-6) 的互通範圍；JSON 本身不禁止更大的數字，內部 DB 型別也不因此改變。新增不同用途的數值時須先決定其表示契約。
+
+文字是否非空沿現有領域的 Python 3.14 `str.strip()`／`str.isspace()` 語意：Unicode 分類 `Zs` 或 bidirectional class `WS/B/S` 視為空白；U+FEFF 不屬此集合。canonical pattern 明列碼點，不用各語言不同的 `\s` 推定同義；須禁止 NUL 的欄位也在同一 pattern 表達，保留原文字而不自動 trim。這是 Caliburn 的業務政策，不是所有產品通用的 Unicode 清理規則。[Python 字串規格](https://docs.python.org/3.14/library/stdtypes.html#str.isspace)
+
 ## 隔離與歷史範圍
 
-保留的 RAG 有自己的跨語言契約 `packages/ocs-contract`，以 JSON Schema 生成 Pydantic model 與 TypeScript type；生成檢查沿[該套件說明](../../packages/ocs-contract/README.md)。它不屬於正式 JD 產品的契約，App／Web 不 import 或消費它；RAG 的隔離邊界不因契約存在而改變。
+保留的 RAG 有自己的跨語言契約 `packages/ocs-contract`，以 JSON Schema 生成目前 Python 消費者使用的 Pydantic model；無消費者的 TypeScript 產物已移除，生成檢查只在暫存目錄產生並比較，不更動工作檔或 Git index。生成檢查沿[該套件說明](../../packages/ocs-contract/README.md)。它不屬於正式 JD 產品的契約，App／Web 不 import 或消費它；RAG 的隔離邊界不因契約存在而改變。
 
 `experiments/jd-relational-app`、`packages/consultant-memory` 與 `packages/job-analysis-contract` 已退役並移出工作樹，沿革由[Git 歷史](../history.md#retired-packages-20261008)取回，不作現行依賴，也不為已移除的 interview／job-authoring 接縫新增相容契約。
 
